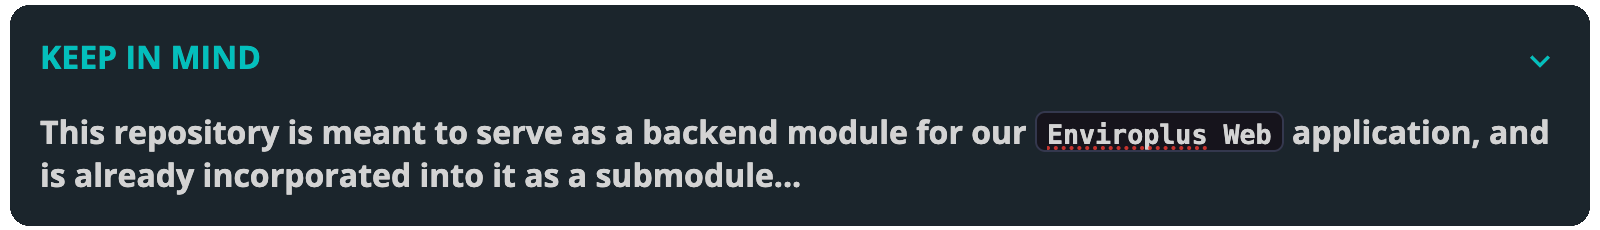
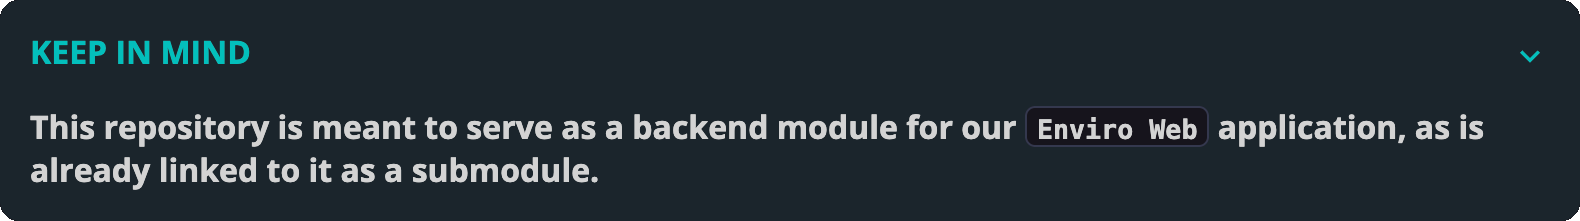
Update LICENSE Info
- Add new README image

Changed region(s): [[0.0, 0.0, 1.0, 1.0], [0.6513, 0.4887, 0.7753, 0.5158], [0.7753, 0.4615, 0.8063, 0.4887]]

diff --git a/README.md b/README.md
@@ -19,7 +19,7 @@
 <hr>
 <div align="center"><strong>🚨 IMPORTANT NOTE 🚨 
 
- This Python module is meant to be used as a backend for our <b>`Enviroplus Web`</b> dashboard application, and other related projects that utilize the Enviroplus Raspberry Pi HAT made by Pimoroni.</div>
+ This Python module is meant to be used as a backend for our <b>`Enviro Web`</b> dashboard application, and other related projects that utilize the Enviro(+) Raspberry Pi HAT made by Pimoroni.</div>
 <hr>
 
 <br>
@@ -49,19 +49,22 @@ The schema for this project is defined in [`api/schema.py`](api/schema.py), and 
 
 ```python
 import strawberry
-from .types.env import Env
-from .types.env import get_env_data
+from .types.env import Env, EnvPlus
+from .types.env import get_env_data, get_env_data_plus
 
 @strawberry.type
 class Query:
-    @strawberry.field(description="Query current environmental data")
+    @strawberry.field(description="Query current environmental data for Standard Enviro HAT")
     async def current_readings(self) -> Env:
         return await get_env_data()
+    @strawberry.field(description="Query current environmental data for Enviro+ HAT")
+    async def current_readings_plus(self) -> EnvPlus:
+        return await get_env_data_plus()
 
 schema = strawberry.Schema(query=Query)
 ```
 
-This schema utilizes a callback function that returns an `Env` object containing the current sensor readings at the time of the query. The class declaration for this object can be found in [`api/types/env.py`](api/types/env.py):
+This schema utilizes a callback function that returns either an `Env` or `EnvPlus` object containing the current sensor readings at the time of the query. The class declarations for these objects can be found in [`api/types/env.py`](api/types/env.py):
 
 ```python
 @strawberry.type(
@@ -71,24 +74,13 @@ class Env:
     temperature: float = strawberry.field(description="Current temperature reading in Celsius")
     humidity: float = strawberry.field(description="Current humidity reading")
     pressure: float = strawberry.field(description="Current pressure reading in mmHg")
+
+@strawberry.type(
+    description="A snapshot of current environmental data with additional gas measurements"
+)
+class EnvPlus(Env):
     co: float = strawberry.field(description="Reducing gas measurement of Carbon Monoxide")
     nh3: float = strawberry.field(description="Concentration measurement of Ammonia gas")
-
-async def get_env_data() -> Env:
-    temperature, humidity, pressure, co, nh3 = await asyncio.gather(
-        get_temperature(),
-        get_humidity(),
-        get_pressure(),
-        get_co(),
-        get_nh3()
-    )
-    return Env(
-        temperature=temperature,
-        humidity=humidity,
-        pressure=pressure,
-        co=co,
-        nh3=nh3
-    )
 ```
 
 <br>
@@ -111,13 +103,13 @@ Since Apollo can use data from any source, it makes for an excellent production-
 
 <br>
 
-## ⚙ Installation
-
 <div align="center">
     <img src="images/remember.png" alt="Keep in mind" width="800"/>
 </div>
 
 <br>
+
+## ⚙ Installation
 
 **Clone the repository:**
 ```sh
@@ -144,7 +136,7 @@ $ fastapi dev server/main.py
 $ fastapi run --host 0.0.0.0 --port 8080 server/main.py
 ```
 
-> **Instead of running these commands manually, simply run the `setup.sh` script****
+> **Instead of running these commands manually, simply run the `setup.sh` script**
 
 <br>
 

diff --git a/LICENSE.md b/LICENSE.md
@@ -1,7 +1,6 @@
+# MIT License
 
-The MIT License (MIT)
-
-Copyright (c) 2024 Ed Rutherford
+> **Copyright (c) 2025 Ed Rutherford (dedSyn4ps3)**
 
 Permission is hereby granted, free of charge, to any person obtaining a copy
 of this software and associated documentation files (the "Software"), to deal
@@ -10,13 +9,17 @@ to use, copy, modify, merge, publish, distribute, sublicense, and/or sell
 copies of the Software, and to permit persons to whom the Software is
 furnished to do so, subject to the following conditions:
 
-The above copyright notice and this permission notice shall be included in all
-copies or substantial portions of the Software.
+**The above copyright notice and this permission notice shall be included in all
+copies or substantial portions of the Software.**
 
-THE SOFTWARE IS PROVIDED "AS IS", WITHOUT WARRANTY OF ANY KIND, EXPRESS OR
-IMPLIED, INCLUDING BUT NOT LIMITED TO THE WARRANTIES OF MERCHANTABILITY,
-FITNESS FOR A PARTICULAR PURPOSE AND NONINFRINGEMENT. IN NO EVENT SHALL THE
-AUTHORS OR COPYRIGHT HOLDERS BE LIABLE FOR ANY CLAIM, DAMAGES OR OTHER
-LIABILITY, WHETHER IN AN ACTION OF CONTRACT, TORT OR OTHERWISE, ARISING FROM,
-OUT OF OR IN CONNECTION WITH THE SOFTWARE OR THE USE OR OTHER DEALINGS IN THE
-SOFTWARE.
+**Attribution**: You must give appropriate credit, provide a link to the license,
+and indicate if changes were made. You may do so in any reasonable manner, but not in
+any way that suggests the licensor endorses you or your use.
+
+> THE SOFTWARE IS PROVIDED "AS IS", WITHOUT WARRANTY OF ANY KIND, EXPRESS OR
+> IMPLIED, INCLUDING BUT NOT LIMITED TO THE WARRANTIES OF MERCHANTABILITY,
+> FITNESS FOR A PARTICULAR PURPOSE AND NONINFRINGEMENT. IN NO EVENT SHALL THE
+> AUTHORS OR COPYRIGHT HOLDERS BE LIABLE FOR ANY CLAIM, DAMAGES OR OTHER
+> LIABILITY, WHETHER IN AN ACTION OF CONTRACT, TORT OR OTHERWISE, ARISING FROM,
+> OUT OF OR IN CONNECTION WITH THE SOFTWARE OR THE USE OR OTHER DEALINGS IN THE
+> SOFTWARE.
